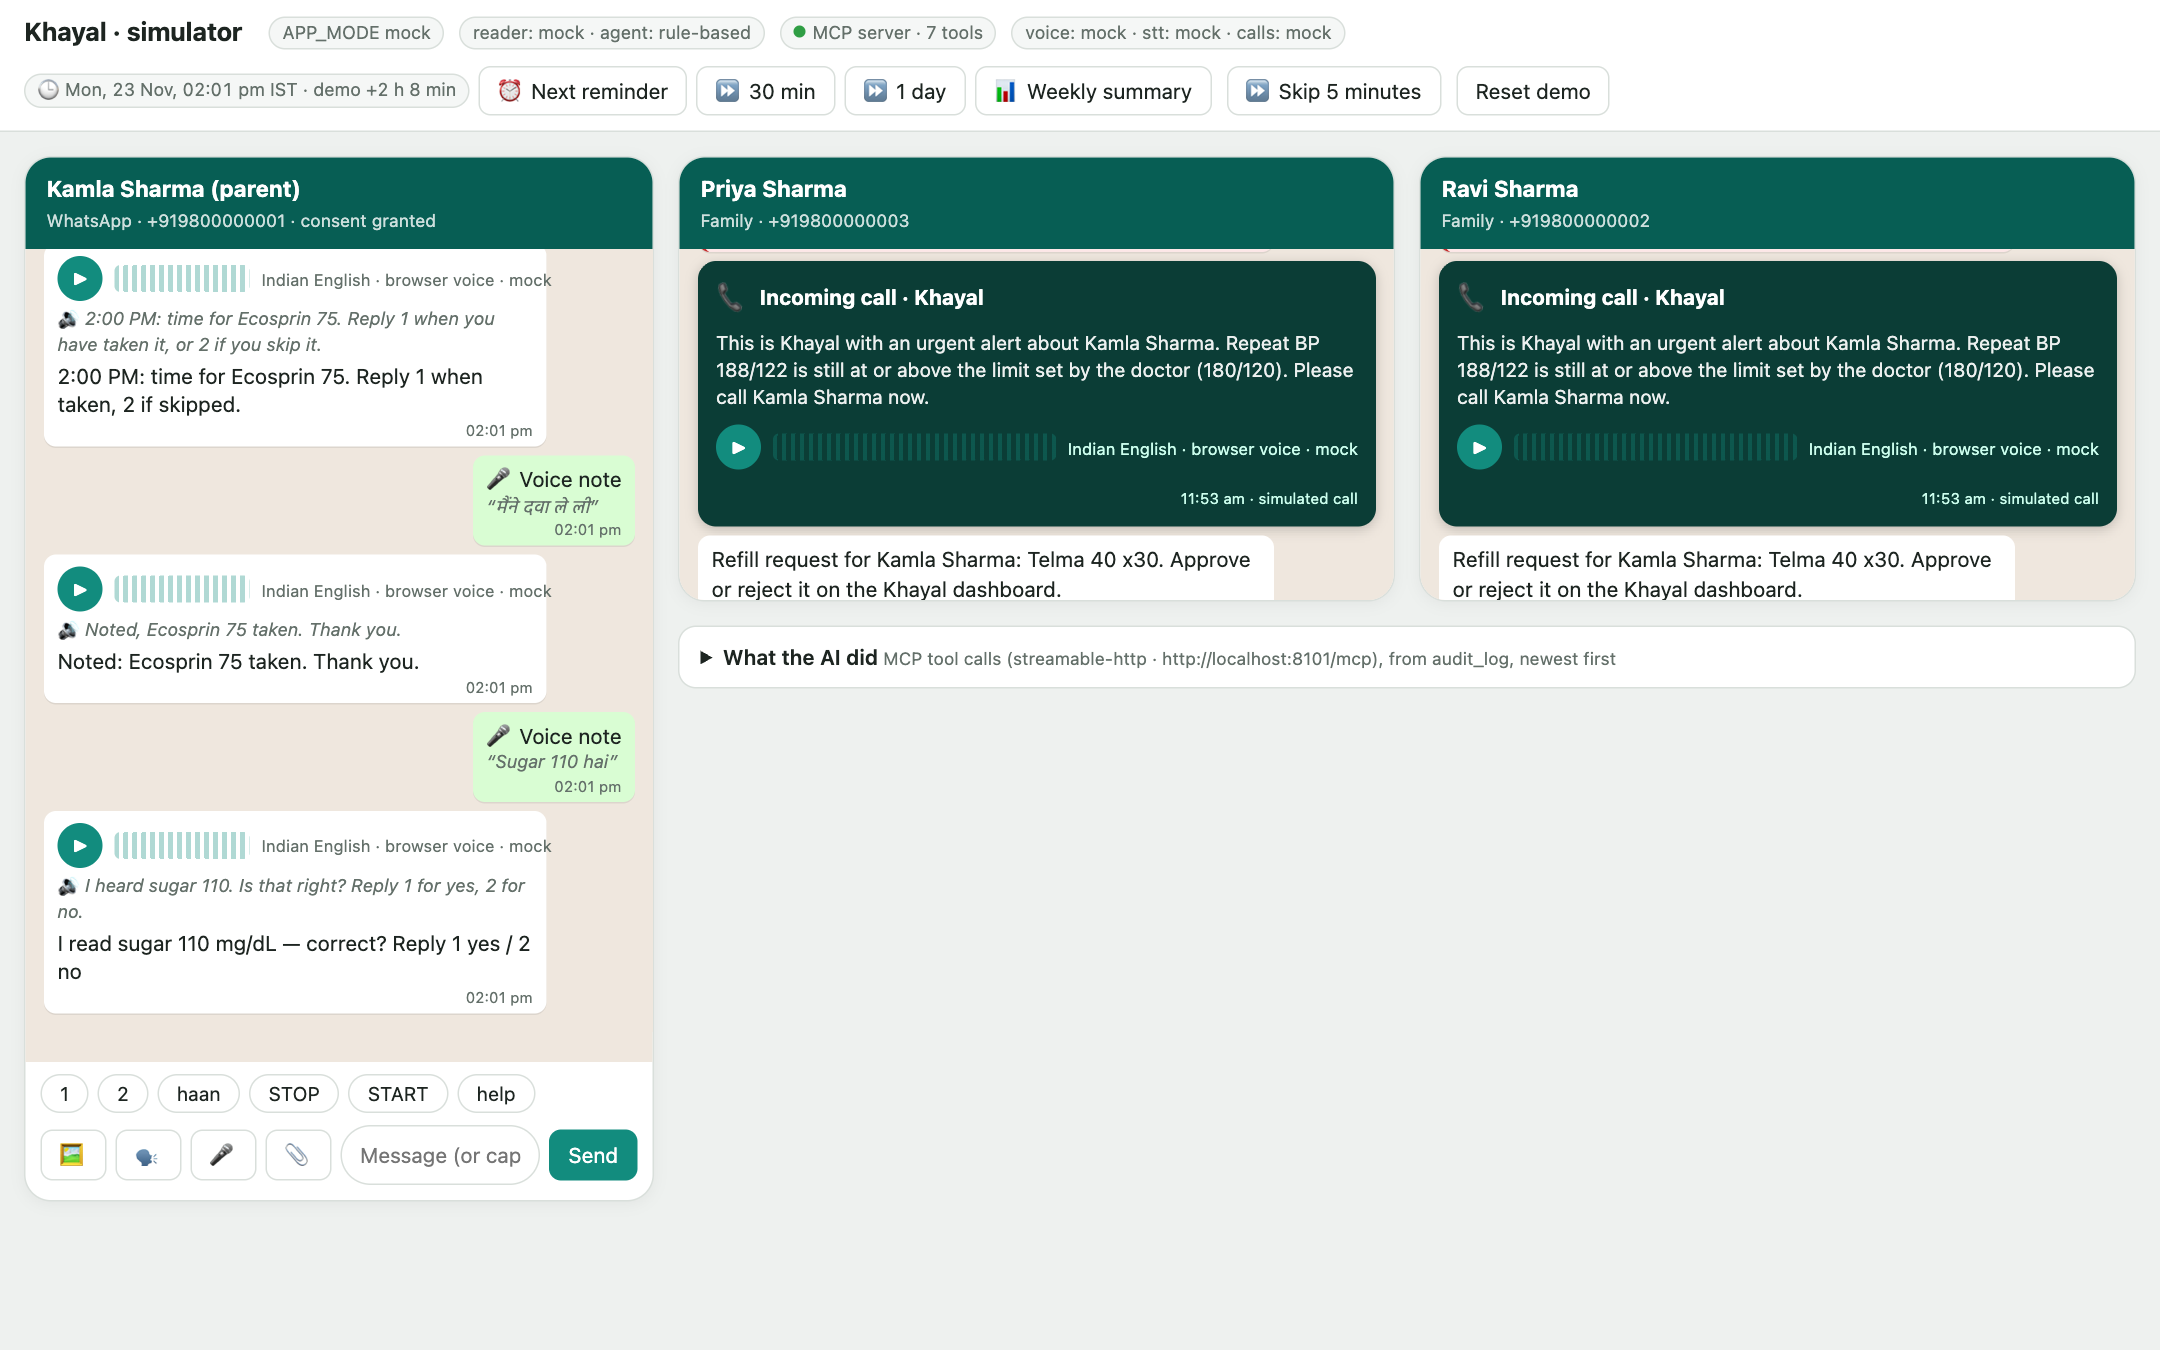
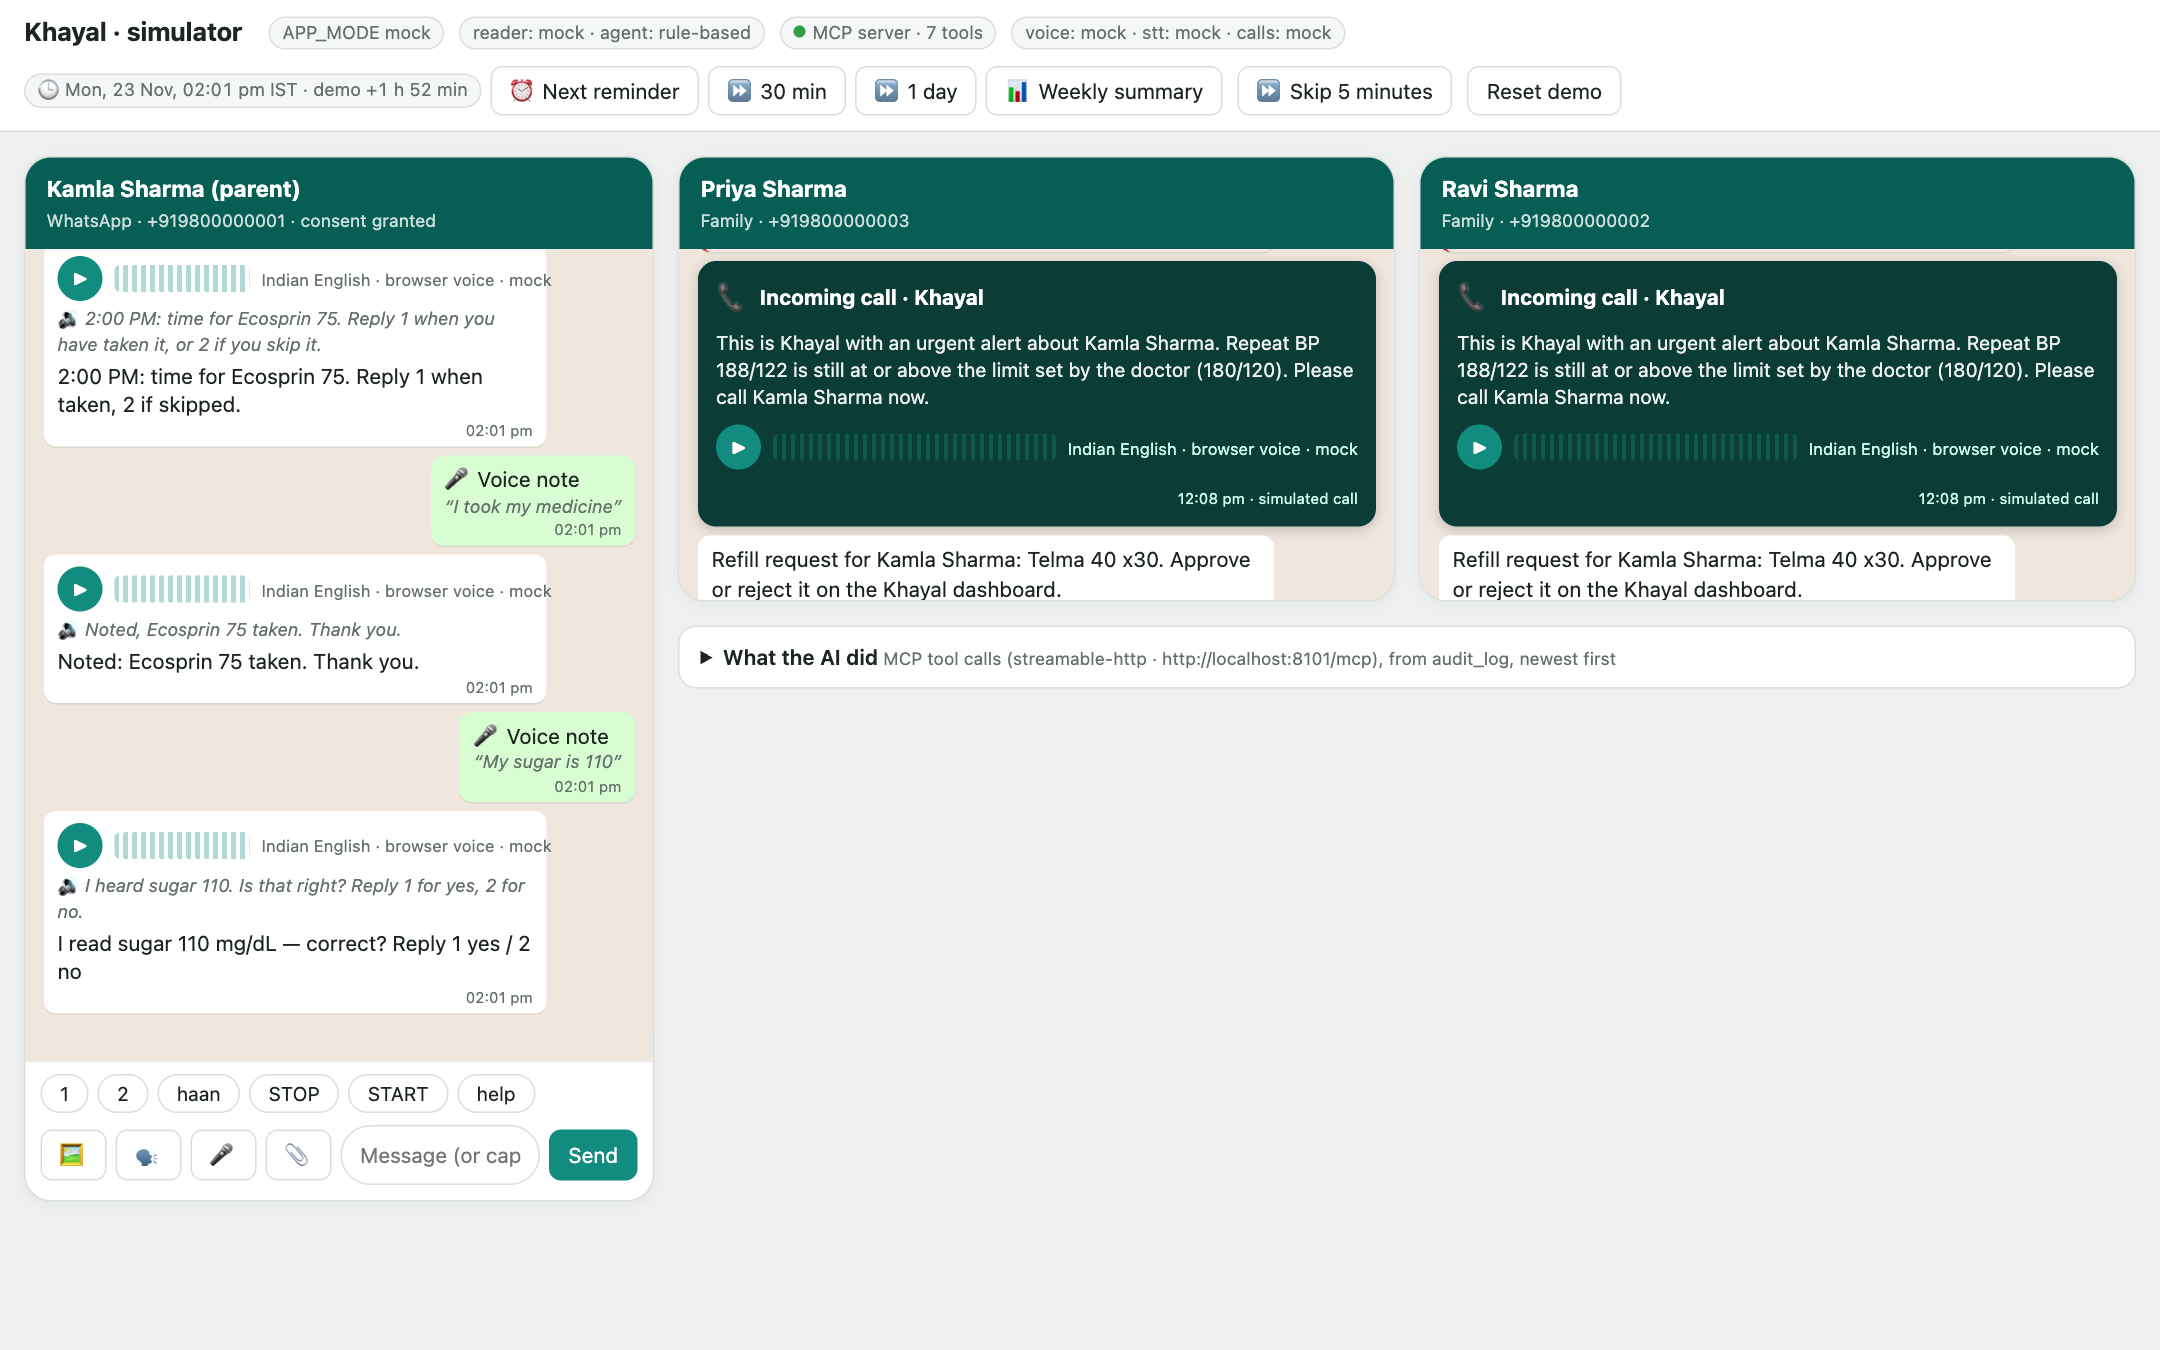
docs: voice screenshot with English sample voice notes

Changed region(s): [[0.1861, 0.0622, 0.7444, 0.0933], [0.1861, 0.3422, 0.2792, 0.4044], [0.2171, 0.5289, 0.2792, 0.5911]]

diff --git a/README.md b/README.md
@@ -208,7 +208,7 @@ After the quick start above (full script with timings: [docs/DEMO_SCRIPT.md](doc
 
 ## Screenshots
 
-![Simulator: Indian English voice-note reminder and replies in the parent's chat, and an Incoming call card for the red alert in each child's pane](docs/screenshots/voice-and-call.png)
+![Simulator: Indian English voice-note reminder, the parent's English voice-note replies, and an Incoming call card for the red alert in each child's pane](docs/screenshots/voice-and-call.png)
 
 | Trends with doctor-set bands | What the AI did |
 |---|---|
